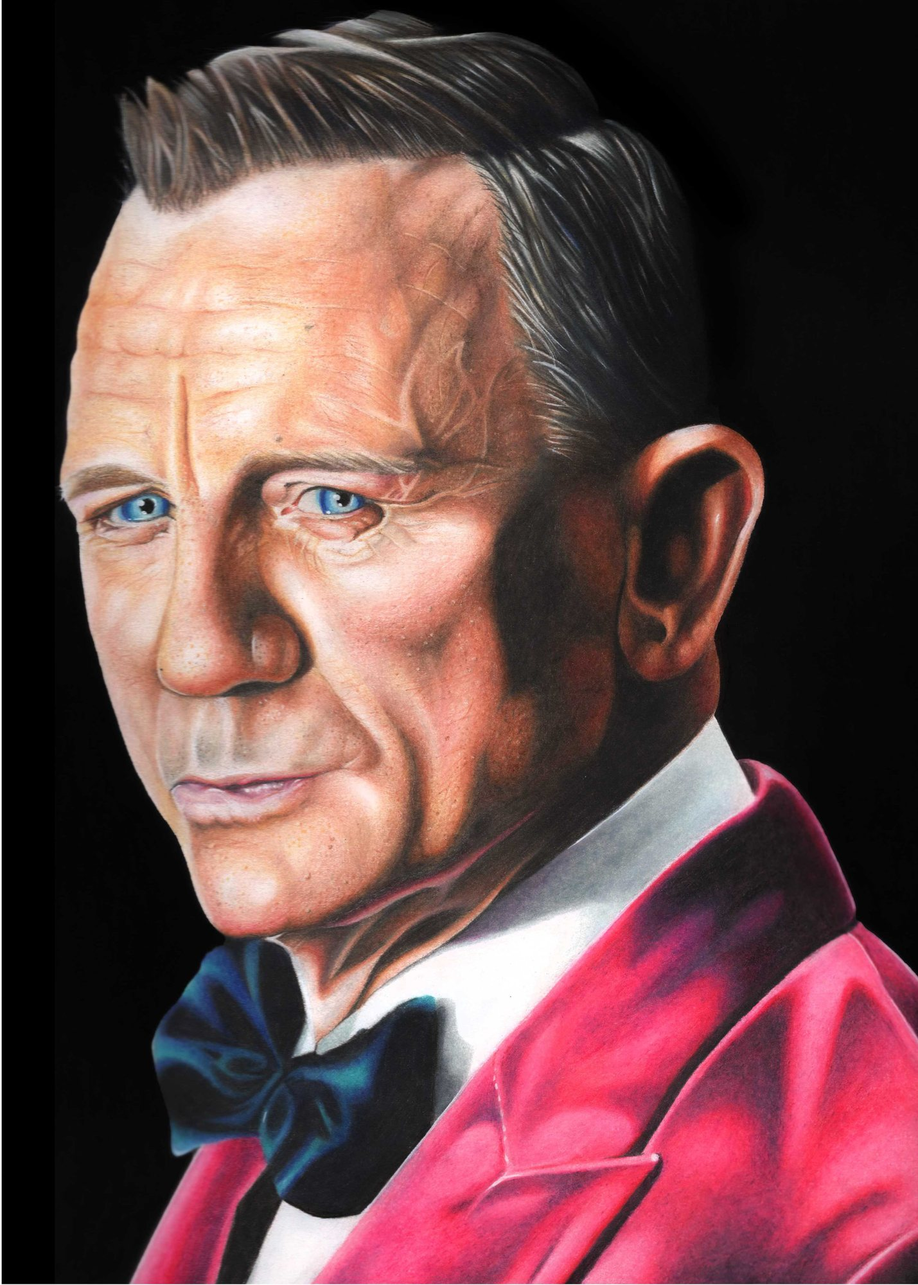
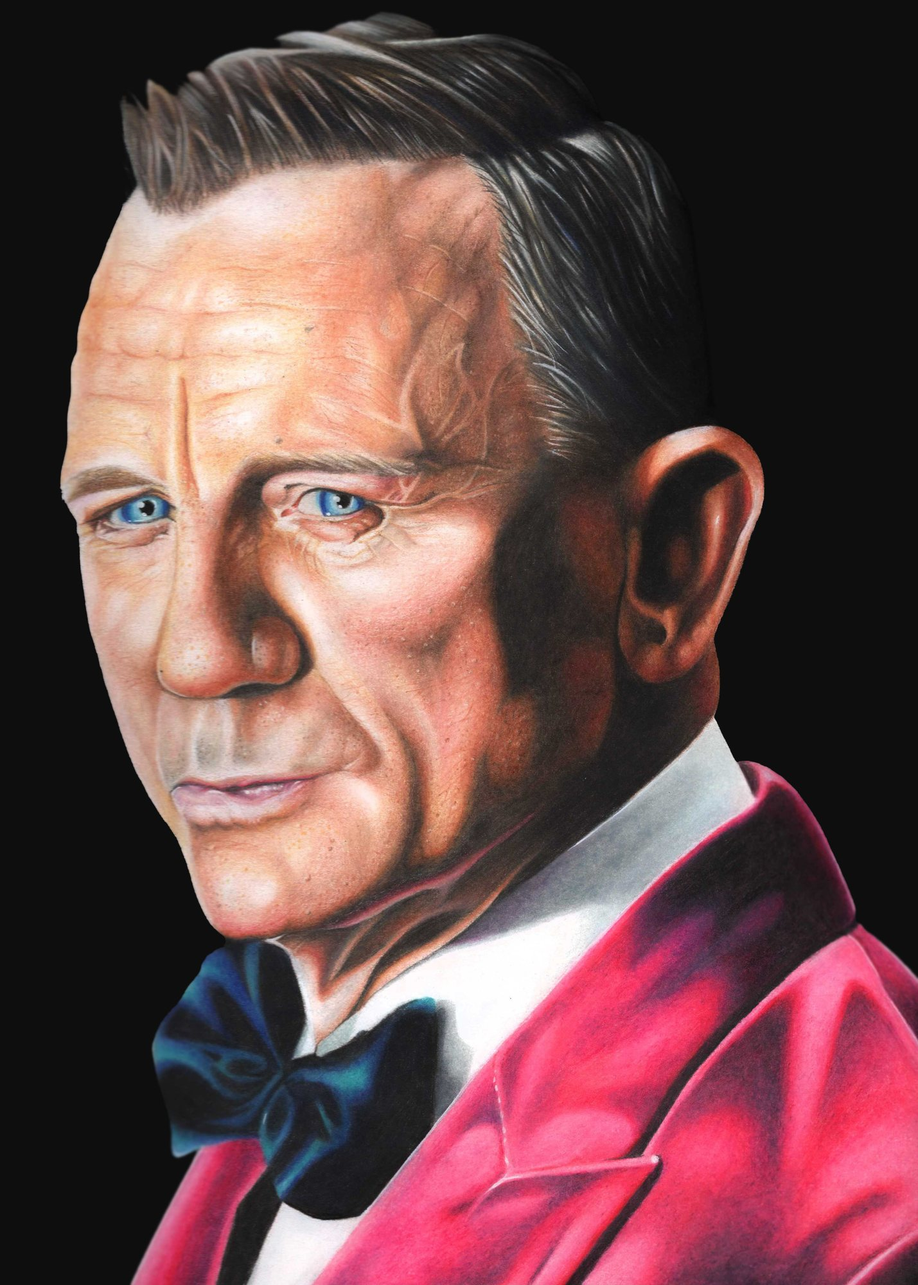
Studio: updated Daniel Craig portrait

diff --git a/portfolio.html b/portfolio.html
@@ -140,7 +140,7 @@
 <span class="pf-count">Commissions open</span>
 <p class="pf-lede">Paintings in oils: the films, music and people that resonate with me, and portraits of much-loved pets.</p>
 </div>
-<p class="pf-subhead">People</p><button type="button" class="pf-tile pf-feature pf-reveal" style="--ar:1.543" data-group="studio" data-full="assets/portfolio/full/studio-01.jpg" data-title="It’s a Wonderful Life" data-meta="Oil" aria-label="It’s a Wonderful Life, Oil"><img src="assets/portfolio/thumbs/studio-01.jpg" alt="It’s a Wonderful Life" loading="lazy"/><span class="pf-cap"><b>It’s a Wonderful Life</b><span>Oil</span></span></button><div class="pf-masonry"><button type="button" class="pf-tile pf-mtile pf-reveal" style="--ar:0.755" data-group="studio" data-full="assets/portfolio/full/studio-02.jpg" data-title="David Bowie" data-meta="Oil" aria-label="David Bowie, Oil"><img src="assets/portfolio/thumbs/studio-02.jpg" alt="David Bowie" loading="lazy"/><span class="pf-cap"><b>David Bowie</b><span>Oil</span></span></button><button type="button" class="pf-tile pf-mtile pf-reveal" style="--ar:0.662" data-group="studio" data-full="assets/portfolio/full/studio-03.jpg" data-title="Self portrait" data-meta="Pastel" aria-label="Self portrait, Pastel"><img src="assets/portfolio/thumbs/studio-03.jpg" alt="Self portrait" loading="lazy"/><span class="pf-cap"><b>Self portrait</b><span>Pastel</span></span></button><button type="button" class="pf-tile pf-mtile pf-reveal" style="--ar:0.697" data-group="studio" data-full="assets/portfolio/full/studio-04.jpg" data-title="My Dad" data-meta="Oil" aria-label="My Dad, Oil"><img src="assets/portfolio/thumbs/studio-04.jpg" alt="My Dad" loading="lazy"/><span class="pf-cap"><b>My Dad</b><span>Oil</span></span></button><button type="button" class="pf-tile pf-mtile pf-reveal" style="--ar:0.739" data-group="studio" data-full="assets/portfolio/full/studio-05.jpg" data-title="Harrison Ford" data-meta="Oil" aria-label="Harrison Ford, Oil"><img src="assets/portfolio/thumbs/studio-05.jpg" alt="Harrison Ford" loading="lazy"/><span class="pf-cap"><b>Harrison Ford</b><span>Oil</span></span></button><button type="button" class="pf-tile pf-mtile pf-reveal" style="--ar:1.333" data-group="studio" data-full="assets/portfolio/full/studio-06.jpg" data-title="Pedro Pascal" data-meta="Oil" aria-label="Pedro Pascal, Oil"><img src="assets/portfolio/thumbs/studio-06.jpg" alt="Pedro Pascal" loading="lazy"/><span class="pf-cap"><b>Pedro Pascal</b><span>Oil</span></span></button><button type="button" class="pf-tile pf-mtile pf-reveal" style="--ar:0.707" data-group="studio" data-full="assets/portfolio/full/studio-07.jpg" data-title="Peter Capaldi" data-meta="Oil" aria-label="Peter Capaldi, Oil"><img src="assets/portfolio/thumbs/studio-07.jpg" alt="Peter Capaldi" loading="lazy"/><span class="pf-cap"><b>Peter Capaldi</b><span>Oil</span></span></button><button type="button" class="pf-tile pf-mtile pf-reveal" style="--ar:0.717" data-group="studio" data-full="assets/portfolio/full/studio-08.jpg" data-title="Kurt Cobain" data-meta="Oil" aria-label="Kurt Cobain, Oil"><img src="assets/portfolio/thumbs/studio-08.jpg" alt="Kurt Cobain" loading="lazy"/><span class="pf-cap"><b>Kurt Cobain</b><span>Oil</span></span></button><button type="button" class="pf-tile pf-mtile pf-reveal" style="--ar:1.515" data-group="studio" data-full="assets/portfolio/full/studio-09.jpg" data-title="Robert Shaw" data-meta="Oil" aria-label="Robert Shaw, Oil"><img src="assets/portfolio/thumbs/studio-09.jpg" alt="Robert Shaw" loading="lazy"/><span class="pf-cap"><b>Robert Shaw</b><span>Oil</span></span></button><button type="button" class="pf-tile pf-mtile pf-reveal" style="--ar:0.714" data-group="studio" data-full="assets/portfolio/full/studio-10.jpg" data-title="Daniel Craig" data-meta="Oil" aria-label="Daniel Craig, Oil"><img src="assets/portfolio/thumbs/studio-10.jpg" alt="Daniel Craig" loading="lazy"/><span class="pf-cap"><b>Daniel Craig</b><span>Oil</span></span></button><button type="button" class="pf-tile pf-mtile pf-reveal" style="--ar:1.0" data-group="studio" data-full="assets/portfolio/full/studio-11.jpg" data-title="Jack Nicholson" data-meta="Oil" aria-label="Jack Nicholson, Oil"><img src="assets/portfolio/thumbs/studio-11.jpg" alt="Jack Nicholson" loading="lazy"/><span class="pf-cap"><b>Jack Nicholson</b><span>Oil</span></span></button><button type="button" class="pf-tile pf-mtile pf-reveal" style="--ar:0.745" data-group="studio" data-full="assets/portfolio/full/studio-12.jpg" data-title="Steve McQueen" data-meta="Oil" aria-label="Steve McQueen, Oil"><img src="assets/portfolio/thumbs/studio-12.jpg" alt="Steve McQueen" loading="lazy"/><span class="pf-cap"><b>Steve McQueen</b><span>Oil</span></span></button><button type="button" class="pf-tile pf-mtile pf-reveal" style="--ar:0.548" data-group="studio" data-full="assets/portfolio/full/studio-17.jpg" data-title="Louis Armstrong" data-meta="Oil" aria-label="Louis Armstrong, Oil"><img src="assets/portfolio/thumbs/studio-17.jpg" alt="Louis Armstrong" loading="lazy"/><span class="pf-cap"><b>Louis Armstrong</b><span>Oil</span></span></button><button type="button" class="pf-tile pf-mtile pf-reveal" style="--ar:1.435" data-group="studio" data-full="assets/portfolio/full/studio-13.jpg" data-title="Ray Charles" data-meta="Pencil" aria-label="Ray Charles, Pencil"><img src="assets/portfolio/thumbs/studio-13.jpg" alt="Ray Charles" loading="lazy"/><span class="pf-cap"><b>Ray Charles</b><span>Pencil</span></span></button><button type="button" class="pf-tile pf-mtile pf-reveal" style="--ar:0.685" data-group="studio" data-full="assets/portfolio/full/studio-14.jpg" data-title="Aaron Paul and Bryan Cranston" data-meta="Pencil" aria-label="Aaron Paul and Bryan Cranston, Pencil"><img src="assets/portfolio/thumbs/studio-14.jpg" alt="Aaron Paul and Bryan Cranston" loading="lazy"/><span class="pf-cap"><b>Aaron Paul and Bryan Cranston</b><span>Pencil</span></span></button><button type="button" class="pf-tile pf-mtile pf-reveal" style="--ar:0.693" data-group="studio" data-full="assets/portfolio/full/studio-15.jpg" data-title="Cillian Murphy" data-meta="Pencil" aria-label="Cillian Murphy, Pencil"><img src="assets/portfolio/thumbs/studio-15.jpg" alt="Cillian Murphy" loading="lazy"/><span class="pf-cap"><b>Cillian Murphy</b><span>Pencil</span></span></button><button type="button" class="pf-tile pf-mtile pf-reveal" style="--ar:0.68" data-group="studio" data-full="assets/portfolio/full/studio-16.jpg" data-title="Jessica Chastain" data-meta="Pencil" aria-label="Jessica Chastain, Pencil"><img src="assets/portfolio/thumbs/studio-16.jpg" alt="Jessica Chastain" loading="lazy"/><span class="pf-cap"><b>Jessica Chastain</b><span>Pencil</span></span></button><button type="button" class="pf-tile pf-mtile pf-reveal" style="--ar:0.683" data-group="studio" data-full="assets/portfolio/full/studio-18.jpg" data-title="Margot Robbie" data-meta="Pencil" aria-label="Margot Robbie, Pencil"><img src="assets/portfolio/thumbs/studio-18.jpg" alt="Margot Robbie" loading="lazy"/><span class="pf-cap"><b>Margot Robbie</b><span>Pencil</span></span></button><button type="button" class="pf-tile pf-mtile pf-reveal" style="--ar:0.687" data-group="studio" data-full="assets/portfolio/full/studio-19.jpg" data-title="Snoop Dogg" data-meta="Pencil" aria-label="Snoop Dogg, Pencil"><img src="assets/portfolio/thumbs/studio-19.jpg" alt="Snoop Dogg" loading="lazy"/><span class="pf-cap"><b>Snoop Dogg</b><span>Pencil</span></span></button><button type="button" class="pf-tile pf-mtile pf-reveal" style="--ar:0.714" data-group="studio" data-full="assets/portfolio/full/studio-20.jpg" data-title="Sean Connery" data-meta="Pencil" aria-label="Sean Connery, Pencil"><img src="assets/portfolio/thumbs/studio-20.jpg" alt="Sean Connery" loading="lazy"/><span class="pf-cap"><b>Sean Connery</b><span>Pencil</span></span></button><button type="button" class="pf-tile pf-mtile pf-reveal" style="--ar:0.686" data-group="studio" data-full="assets/portfolio/full/studio-21.jpg" data-title="Tom Hiddleston" data-meta="Pencil" aria-label="Tom Hiddleston, Pencil"><img src="assets/portfolio/thumbs/studio-21.jpg" alt="Tom Hiddleston" loading="lazy"/><span class="pf-cap"><b>Tom Hiddleston</b><span>Pencil</span></span></button></div><p class="pf-subhead">Pets</p><div class="pf-featurerow"><button type="button" class="pf-tile pf-feature pf-reveal" style="--ar:0.724" data-group="studio" data-full="assets/portfolio/full/studio-22.jpg" data-title="Pastel" data-meta="" aria-label="Pastel"><img src="assets/portfolio/thumbs/studio-22.jpg" alt="Pastel" loading="lazy"/><span class="pf-cap"><b>Pastel</b></span></button><div class="pf-masonry pf-beside"><button type="button" class="pf-tile pf-mtile pf-reveal" style="--ar:1.1" data-group="studio" data-full="assets/portfolio/full/studio-23.jpg" data-title="Digital" data-meta="" aria-label="Digital"><img src="assets/portfolio/thumbs/studio-23.jpg" alt="Digital" loading="lazy"/><span class="pf-cap"><b>Digital</b></span></button><button type="button" class="pf-tile pf-mtile pf-reveal" style="--ar:0.704" data-group="studio" data-full="assets/portfolio/full/studio-24.jpg" data-title="Pastel" data-meta="" aria-label="Pastel"><img src="assets/portfolio/thumbs/studio-24.jpg" alt="Pastel" loading="lazy"/><span class="pf-cap"><b>Pastel</b></span></button><button type="button" class="pf-tile pf-mtile pf-reveal" style="--ar:0.705" data-group="studio" data-full="assets/portfolio/full/studio-25.jpg" data-title="Pastel" data-meta="" aria-label="Pastel"><img src="assets/portfolio/thumbs/studio-25.jpg" alt="Pastel" loading="lazy"/><span class="pf-cap"><b>Pastel</b></span></button><button type="button" class="pf-tile pf-mtile pf-reveal" style="--ar:0.702" data-group="studio" data-full="assets/portfolio/full/studio-26.jpg" data-title="Colour pencil" data-meta="" aria-label="Colour pencil"><img src="assets/portfolio/thumbs/studio-26.jpg" alt="Colour pencil" loading="lazy"/><span class="pf-cap"><b>Colour pencil</b></span></button><button type="button" class="pf-tile pf-mtile pf-reveal" style="--ar:0.672" data-group="studio" data-full="assets/portfolio/full/studio-27.jpg" data-title="Colour pencil" data-meta="" aria-label="Colour pencil"><img src="assets/portfolio/thumbs/studio-27.jpg" alt="Colour pencil" loading="lazy"/><span class="pf-cap"><b>Colour pencil</b></span></button><button type="button" class="pf-tile pf-mtile pf-reveal" style="--ar:1.101" data-group="studio" data-full="assets/portfolio/full/studio-28.jpg" data-title="Digital" data-meta="" aria-label="Digital"><img src="assets/portfolio/thumbs/studio-28.jpg" alt="Digital" loading="lazy"/><span class="pf-cap"><b>Digital</b></span></button></div></div><div class="pf-masonry"><button type="button" class="pf-tile pf-mtile pf-reveal" style="--ar:0.749" data-group="studio" data-full="assets/portfolio/full/studio-29.jpg" data-title="Colour pencil" data-meta="" aria-label="Colour pencil"><img src="assets/portfolio/thumbs/studio-29.jpg" alt="Colour pencil" loading="lazy"/><span class="pf-cap"><b>Colour pencil</b></span></button><button type="button" class="pf-tile pf-mtile pf-reveal" style="--ar:0.794" data-group="studio" data-full="assets/portfolio/full/studio-30.jpg" data-title="Colour pencil" data-meta="" aria-label="Colour pencil"><img src="assets/portfolio/thumbs/studio-30.jpg" alt="Colour pencil" loading="lazy"/><span class="pf-cap"><b>Colour pencil</b></span></button><button type="button" class="pf-tile pf-mtile pf-reveal" style="--ar:0.719" data-group="studio" data-full="assets/portfolio/full/studio-31.jpg" data-title="Colour pencil" data-meta="" aria-label="Colour pencil"><img src="assets/portfolio/thumbs/studio-31.jpg" alt="Colour pencil" loading="lazy"/><span class="pf-cap"><b>Colour pencil</b></span></button><button type="button" class="pf-tile pf-mtile pf-reveal" style="--ar:0.794" data-group="studio" data-full="assets/portfolio/full/studio-32.jpg" data-title="Pastel" data-meta="" aria-label="Pastel"><img src="assets/portfolio/thumbs/studio-32.jpg" alt="Pastel" loading="lazy"/><span class="pf-cap"><b>Pastel</b></span></button><button type="button" class="pf-tile pf-mtile pf-reveal" style="--ar:0.767" data-group="studio" data-full="assets/portfolio/full/studio-33.jpg" data-title="Colour pencil" data-meta="" aria-label="Colour pencil"><img src="assets/portfolio/thumbs/studio-33.jpg" alt="Colour pencil" loading="lazy"/><span class="pf-cap"><b>Colour pencil</b></span></button><button type="button" class="pf-tile pf-mtile pf-reveal" style="--ar:0.968" data-group="studio" data-full="assets/portfolio/full/studio-34.jpg" data-title="Colour pencil" data-meta="" aria-label="Colour pencil"><img src="assets/portfolio/thumbs/studio-34.jpg" alt="Colour pencil" loading="lazy"/><span class="pf-cap"><b>Colour pencil</b></span></button><button type="button" class="pf-tile pf-mtile pf-reveal" style="--ar:0.823" data-group="studio" data-full="assets/portfolio/full/studio-35.jpg" data-title="Colour pencil" data-meta="" aria-label="Colour pencil"><img src="assets/portfolio/thumbs/studio-35.jpg" alt="Colour pencil" loading="lazy"/><span class="pf-cap"><b>Colour pencil</b></span></button><button type="button" class="pf-tile pf-mtile pf-reveal" style="--ar:0.988" data-group="studio" data-full="assets/portfolio/full/studio-36.jpg" data-title="Pastel" data-meta="" aria-label="Pastel"><img src="assets/portfolio/thumbs/studio-36.jpg" alt="Pastel" loading="lazy"/><span class="pf-cap"><b>Pastel</b></span></button><button type="button" class="pf-tile pf-mtile pf-reveal" style="--ar:0.763" data-group="studio" data-full="assets/portfolio/full/studio-37.jpg" data-title="Oil" data-meta="" aria-label="Oil"><img src="assets/portfolio/thumbs/studio-37.jpg" alt="Oil" loading="lazy"/><span class="pf-cap"><b>Oil</b></span></button></div><div class="pf-commission pf-reveal">
+<p class="pf-subhead">People</p><button type="button" class="pf-tile pf-feature pf-reveal" style="--ar:1.543" data-group="studio" data-full="assets/portfolio/full/studio-01.jpg?v=2" data-title="It’s a Wonderful Life" data-meta="Oil" aria-label="It’s a Wonderful Life, Oil"><img src="assets/portfolio/thumbs/studio-01.jpg?v=2" alt="It’s a Wonderful Life" loading="lazy"/><span class="pf-cap"><b>It’s a Wonderful Life</b><span>Oil</span></span></button><div class="pf-masonry"><button type="button" class="pf-tile pf-mtile pf-reveal" style="--ar:0.755" data-group="studio" data-full="assets/portfolio/full/studio-02.jpg?v=2" data-title="David Bowie" data-meta="Oil" aria-label="David Bowie, Oil"><img src="assets/portfolio/thumbs/studio-02.jpg?v=2" alt="David Bowie" loading="lazy"/><span class="pf-cap"><b>David Bowie</b><span>Oil</span></span></button><button type="button" class="pf-tile pf-mtile pf-reveal" style="--ar:0.662" data-group="studio" data-full="assets/portfolio/full/studio-03.jpg?v=2" data-title="Self portrait" data-meta="Pastel" aria-label="Self portrait, Pastel"><img src="assets/portfolio/thumbs/studio-03.jpg?v=2" alt="Self portrait" loading="lazy"/><span class="pf-cap"><b>Self portrait</b><span>Pastel</span></span></button><button type="button" class="pf-tile pf-mtile pf-reveal" style="--ar:0.697" data-group="studio" data-full="assets/portfolio/full/studio-04.jpg?v=2" data-title="My Dad" data-meta="Oil" aria-label="My Dad, Oil"><img src="assets/portfolio/thumbs/studio-04.jpg?v=2" alt="My Dad" loading="lazy"/><span class="pf-cap"><b>My Dad</b><span>Oil</span></span></button><button type="button" class="pf-tile pf-mtile pf-reveal" style="--ar:0.739" data-group="studio" data-full="assets/portfolio/full/studio-05.jpg?v=2" data-title="Harrison Ford" data-meta="Oil" aria-label="Harrison Ford, Oil"><img src="assets/portfolio/thumbs/studio-05.jpg?v=2" alt="Harrison Ford" loading="lazy"/><span class="pf-cap"><b>Harrison Ford</b><span>Oil</span></span></button><button type="button" class="pf-tile pf-mtile pf-reveal" style="--ar:1.333" data-group="studio" data-full="assets/portfolio/full/studio-06.jpg?v=2" data-title="Pedro Pascal" data-meta="Oil" aria-label="Pedro Pascal, Oil"><img src="assets/portfolio/thumbs/studio-06.jpg?v=2" alt="Pedro Pascal" loading="lazy"/><span class="pf-cap"><b>Pedro Pascal</b><span>Oil</span></span></button><button type="button" class="pf-tile pf-mtile pf-reveal" style="--ar:0.707" data-group="studio" data-full="assets/portfolio/full/studio-07.jpg?v=2" data-title="Peter Capaldi" data-meta="Oil" aria-label="Peter Capaldi, Oil"><img src="assets/portfolio/thumbs/studio-07.jpg?v=2" alt="Peter Capaldi" loading="lazy"/><span class="pf-cap"><b>Peter Capaldi</b><span>Oil</span></span></button><button type="button" class="pf-tile pf-mtile pf-reveal" style="--ar:0.717" data-group="studio" data-full="assets/portfolio/full/studio-08.jpg?v=2" data-title="Kurt Cobain" data-meta="Oil" aria-label="Kurt Cobain, Oil"><img src="assets/portfolio/thumbs/studio-08.jpg?v=2" alt="Kurt Cobain" loading="lazy"/><span class="pf-cap"><b>Kurt Cobain</b><span>Oil</span></span></button><button type="button" class="pf-tile pf-mtile pf-reveal" style="--ar:1.515" data-group="studio" data-full="assets/portfolio/full/studio-09.jpg?v=2" data-title="Robert Shaw" data-meta="Oil" aria-label="Robert Shaw, Oil"><img src="assets/portfolio/thumbs/studio-09.jpg?v=2" alt="Robert Shaw" loading="lazy"/><span class="pf-cap"><b>Robert Shaw</b><span>Oil</span></span></button><button type="button" class="pf-tile pf-mtile pf-reveal" style="--ar:0.714" data-group="studio" data-full="assets/portfolio/full/studio-10.jpg?v=2" data-title="Daniel Craig" data-meta="Oil" aria-label="Daniel Craig, Oil"><img src="assets/portfolio/thumbs/studio-10.jpg?v=2" alt="Daniel Craig" loading="lazy"/><span class="pf-cap"><b>Daniel Craig</b><span>Oil</span></span></button><button type="button" class="pf-tile pf-mtile pf-reveal" style="--ar:1.0" data-group="studio" data-full="assets/portfolio/full/studio-11.jpg?v=2" data-title="Jack Nicholson" data-meta="Oil" aria-label="Jack Nicholson, Oil"><img src="assets/portfolio/thumbs/studio-11.jpg?v=2" alt="Jack Nicholson" loading="lazy"/><span class="pf-cap"><b>Jack Nicholson</b><span>Oil</span></span></button><button type="button" class="pf-tile pf-mtile pf-reveal" style="--ar:0.745" data-group="studio" data-full="assets/portfolio/full/studio-12.jpg?v=2" data-title="Steve McQueen" data-meta="Oil" aria-label="Steve McQueen, Oil"><img src="assets/portfolio/thumbs/studio-12.jpg?v=2" alt="Steve McQueen" loading="lazy"/><span class="pf-cap"><b>Steve McQueen</b><span>Oil</span></span></button><button type="button" class="pf-tile pf-mtile pf-reveal" style="--ar:0.548" data-group="studio" data-full="assets/portfolio/full/studio-17.jpg?v=2" data-title="Louis Armstrong" data-meta="Oil" aria-label="Louis Armstrong, Oil"><img src="assets/portfolio/thumbs/studio-17.jpg?v=2" alt="Louis Armstrong" loading="lazy"/><span class="pf-cap"><b>Louis Armstrong</b><span>Oil</span></span></button><button type="button" class="pf-tile pf-mtile pf-reveal" style="--ar:1.435" data-group="studio" data-full="assets/portfolio/full/studio-13.jpg?v=2" data-title="Ray Charles" data-meta="Pencil" aria-label="Ray Charles, Pencil"><img src="assets/portfolio/thumbs/studio-13.jpg?v=2" alt="Ray Charles" loading="lazy"/><span class="pf-cap"><b>Ray Charles</b><span>Pencil</span></span></button><button type="button" class="pf-tile pf-mtile pf-reveal" style="--ar:0.685" data-group="studio" data-full="assets/portfolio/full/studio-14.jpg?v=2" data-title="Aaron Paul and Bryan Cranston" data-meta="Pencil" aria-label="Aaron Paul and Bryan Cranston, Pencil"><img src="assets/portfolio/thumbs/studio-14.jpg?v=2" alt="Aaron Paul and Bryan Cranston" loading="lazy"/><span class="pf-cap"><b>Aaron Paul and Bryan Cranston</b><span>Pencil</span></span></button><button type="button" class="pf-tile pf-mtile pf-reveal" style="--ar:0.693" data-group="studio" data-full="assets/portfolio/full/studio-15.jpg?v=2" data-title="Cillian Murphy" data-meta="Pencil" aria-label="Cillian Murphy, Pencil"><img src="assets/portfolio/thumbs/studio-15.jpg?v=2" alt="Cillian Murphy" loading="lazy"/><span class="pf-cap"><b>Cillian Murphy</b><span>Pencil</span></span></button><button type="button" class="pf-tile pf-mtile pf-reveal" style="--ar:0.68" data-group="studio" data-full="assets/portfolio/full/studio-16.jpg?v=2" data-title="Jessica Chastain" data-meta="Pencil" aria-label="Jessica Chastain, Pencil"><img src="assets/portfolio/thumbs/studio-16.jpg?v=2" alt="Jessica Chastain" loading="lazy"/><span class="pf-cap"><b>Jessica Chastain</b><span>Pencil</span></span></button><button type="button" class="pf-tile pf-mtile pf-reveal" style="--ar:0.683" data-group="studio" data-full="assets/portfolio/full/studio-18.jpg?v=2" data-title="Margot Robbie" data-meta="Pencil" aria-label="Margot Robbie, Pencil"><img src="assets/portfolio/thumbs/studio-18.jpg?v=2" alt="Margot Robbie" loading="lazy"/><span class="pf-cap"><b>Margot Robbie</b><span>Pencil</span></span></button><button type="button" class="pf-tile pf-mtile pf-reveal" style="--ar:0.687" data-group="studio" data-full="assets/portfolio/full/studio-19.jpg?v=2" data-title="Snoop Dogg" data-meta="Pencil" aria-label="Snoop Dogg, Pencil"><img src="assets/portfolio/thumbs/studio-19.jpg?v=2" alt="Snoop Dogg" loading="lazy"/><span class="pf-cap"><b>Snoop Dogg</b><span>Pencil</span></span></button><button type="button" class="pf-tile pf-mtile pf-reveal" style="--ar:0.714" data-group="studio" data-full="assets/portfolio/full/studio-20.jpg?v=2" data-title="Sean Connery" data-meta="Pencil" aria-label="Sean Connery, Pencil"><img src="assets/portfolio/thumbs/studio-20.jpg?v=2" alt="Sean Connery" loading="lazy"/><span class="pf-cap"><b>Sean Connery</b><span>Pencil</span></span></button><button type="button" class="pf-tile pf-mtile pf-reveal" style="--ar:0.686" data-group="studio" data-full="assets/portfolio/full/studio-21.jpg?v=2" data-title="Tom Hiddleston" data-meta="Pencil" aria-label="Tom Hiddleston, Pencil"><img src="assets/portfolio/thumbs/studio-21.jpg?v=2" alt="Tom Hiddleston" loading="lazy"/><span class="pf-cap"><b>Tom Hiddleston</b><span>Pencil</span></span></button></div><p class="pf-subhead">Pets</p><div class="pf-featurerow"><button type="button" class="pf-tile pf-feature pf-reveal" style="--ar:0.724" data-group="studio" data-full="assets/portfolio/full/studio-22.jpg?v=2" data-title="Pastel" data-meta="" aria-label="Pastel"><img src="assets/portfolio/thumbs/studio-22.jpg?v=2" alt="Pastel" loading="lazy"/><span class="pf-cap"><b>Pastel</b></span></button><div class="pf-masonry pf-beside"><button type="button" class="pf-tile pf-mtile pf-reveal" style="--ar:1.1" data-group="studio" data-full="assets/portfolio/full/studio-23.jpg?v=2" data-title="Digital" data-meta="" aria-label="Digital"><img src="assets/portfolio/thumbs/studio-23.jpg?v=2" alt="Digital" loading="lazy"/><span class="pf-cap"><b>Digital</b></span></button><button type="button" class="pf-tile pf-mtile pf-reveal" style="--ar:0.704" data-group="studio" data-full="assets/portfolio/full/studio-24.jpg?v=2" data-title="Pastel" data-meta="" aria-label="Pastel"><img src="assets/portfolio/thumbs/studio-24.jpg?v=2" alt="Pastel" loading="lazy"/><span class="pf-cap"><b>Pastel</b></span></button><button type="button" class="pf-tile pf-mtile pf-reveal" style="--ar:0.705" data-group="studio" data-full="assets/portfolio/full/studio-25.jpg?v=2" data-title="Pastel" data-meta="" aria-label="Pastel"><img src="assets/portfolio/thumbs/studio-25.jpg?v=2" alt="Pastel" loading="lazy"/><span class="pf-cap"><b>Pastel</b></span></button><button type="button" class="pf-tile pf-mtile pf-reveal" style="--ar:0.702" data-group="studio" data-full="assets/portfolio/full/studio-26.jpg?v=2" data-title="Colour pencil" data-meta="" aria-label="Colour pencil"><img src="assets/portfolio/thumbs/studio-26.jpg?v=2" alt="Colour pencil" loading="lazy"/><span class="pf-cap"><b>Colour pencil</b></span></button><button type="button" class="pf-tile pf-mtile pf-reveal" style="--ar:0.672" data-group="studio" data-full="assets/portfolio/full/studio-27.jpg?v=2" data-title="Colour pencil" data-meta="" aria-label="Colour pencil"><img src="assets/portfolio/thumbs/studio-27.jpg?v=2" alt="Colour pencil" loading="lazy"/><span class="pf-cap"><b>Colour pencil</b></span></button><button type="button" class="pf-tile pf-mtile pf-reveal" style="--ar:1.101" data-group="studio" data-full="assets/portfolio/full/studio-28.jpg?v=2" data-title="Digital" data-meta="" aria-label="Digital"><img src="assets/portfolio/thumbs/studio-28.jpg?v=2" alt="Digital" loading="lazy"/><span class="pf-cap"><b>Digital</b></span></button></div></div><div class="pf-masonry"><button type="button" class="pf-tile pf-mtile pf-reveal" style="--ar:0.749" data-group="studio" data-full="assets/portfolio/full/studio-29.jpg?v=2" data-title="Colour pencil" data-meta="" aria-label="Colour pencil"><img src="assets/portfolio/thumbs/studio-29.jpg?v=2" alt="Colour pencil" loading="lazy"/><span class="pf-cap"><b>Colour pencil</b></span></button><button type="button" class="pf-tile pf-mtile pf-reveal" style="--ar:0.794" data-group="studio" data-full="assets/portfolio/full/studio-30.jpg?v=2" data-title="Colour pencil" data-meta="" aria-label="Colour pencil"><img src="assets/portfolio/thumbs/studio-30.jpg?v=2" alt="Colour pencil" loading="lazy"/><span class="pf-cap"><b>Colour pencil</b></span></button><button type="button" class="pf-tile pf-mtile pf-reveal" style="--ar:0.719" data-group="studio" data-full="assets/portfolio/full/studio-31.jpg?v=2" data-title="Colour pencil" data-meta="" aria-label="Colour pencil"><img src="assets/portfolio/thumbs/studio-31.jpg?v=2" alt="Colour pencil" loading="lazy"/><span class="pf-cap"><b>Colour pencil</b></span></button><button type="button" class="pf-tile pf-mtile pf-reveal" style="--ar:0.794" data-group="studio" data-full="assets/portfolio/full/studio-32.jpg?v=2" data-title="Pastel" data-meta="" aria-label="Pastel"><img src="assets/portfolio/thumbs/studio-32.jpg?v=2" alt="Pastel" loading="lazy"/><span class="pf-cap"><b>Pastel</b></span></button><button type="button" class="pf-tile pf-mtile pf-reveal" style="--ar:0.767" data-group="studio" data-full="assets/portfolio/full/studio-33.jpg?v=2" data-title="Colour pencil" data-meta="" aria-label="Colour pencil"><img src="assets/portfolio/thumbs/studio-33.jpg?v=2" alt="Colour pencil" loading="lazy"/><span class="pf-cap"><b>Colour pencil</b></span></button><button type="button" class="pf-tile pf-mtile pf-reveal" style="--ar:0.968" data-group="studio" data-full="assets/portfolio/full/studio-34.jpg?v=2" data-title="Colour pencil" data-meta="" aria-label="Colour pencil"><img src="assets/portfolio/thumbs/studio-34.jpg?v=2" alt="Colour pencil" loading="lazy"/><span class="pf-cap"><b>Colour pencil</b></span></button><button type="button" class="pf-tile pf-mtile pf-reveal" style="--ar:0.823" data-group="studio" data-full="assets/portfolio/full/studio-35.jpg?v=2" data-title="Colour pencil" data-meta="" aria-label="Colour pencil"><img src="assets/portfolio/thumbs/studio-35.jpg?v=2" alt="Colour pencil" loading="lazy"/><span class="pf-cap"><b>Colour pencil</b></span></button><button type="button" class="pf-tile pf-mtile pf-reveal" style="--ar:0.988" data-group="studio" data-full="assets/portfolio/full/studio-36.jpg?v=2" data-title="Pastel" data-meta="" aria-label="Pastel"><img src="assets/portfolio/thumbs/studio-36.jpg?v=2" alt="Pastel" loading="lazy"/><span class="pf-cap"><b>Pastel</b></span></button><button type="button" class="pf-tile pf-mtile pf-reveal" style="--ar:0.763" data-group="studio" data-full="assets/portfolio/full/studio-37.jpg?v=2" data-title="Oil" data-meta="" aria-label="Oil"><img src="assets/portfolio/thumbs/studio-37.jpg?v=2" alt="Oil" loading="lazy"/><span class="pf-cap"><b>Oil</b></span></button></div><div class="pf-commission pf-reveal">
 <h3>Commission a portrait</h3>
 <p>A hand-painted portrait of your pet, or someone special, makes a gift that lasts. I take on a small number of commissions each year.</p>
 <a class="project-button" href="contact.html">Get in touch about a commission<svg viewBox="0 0 24 24" width="16" height="16" fill="none" stroke="currentColor" stroke-width="2" stroke-linecap="round" stroke-linejoin="round" aria-hidden="true"><path d="M7 17 17 7M8 7h9v9"></path></svg></a>

diff --git a/_build_portfolio.py b/_build_portfolio.py
@@ -68,8 +68,8 @@ def stile(it, label=None):
     cls = 'pf-feature' if it['feature'] else 'pf-mtile'
     t, m = html.escape(it.get('title', '')), html.escape(it.get('medium', ''))
     meta = '<span>%s</span>' % m if m else ''
-    return ('<button type="button" class="pf-tile %s pf-reveal" style="--ar:%s" data-group="studio" data-full="assets/portfolio/full/%s.jpg" '
-            'data-title="%s" data-meta="%s" aria-label="%s"><img src="assets/portfolio/thumbs/%s.jpg" alt="%s" loading="lazy"/>'
+    return ('<button type="button" class="pf-tile %s pf-reveal" style="--ar:%s" data-group="studio" data-full="assets/portfolio/full/%s.jpg?v=2" '
+            'data-title="%s" data-meta="%s" aria-label="%s"><img src="assets/portfolio/thumbs/%s.jpg?v=2" alt="%s" loading="lazy"/>'
             '<span class="pf-cap"><b>%s</b>%s</span></button>') % (cls, it['ar'], it['name'], t, m, (t + (', ' + m if m else '')), it['name'], t, t, meta)
 def studio_group(g, sub):
     items = [x for x in studio if x['group'] == g]
